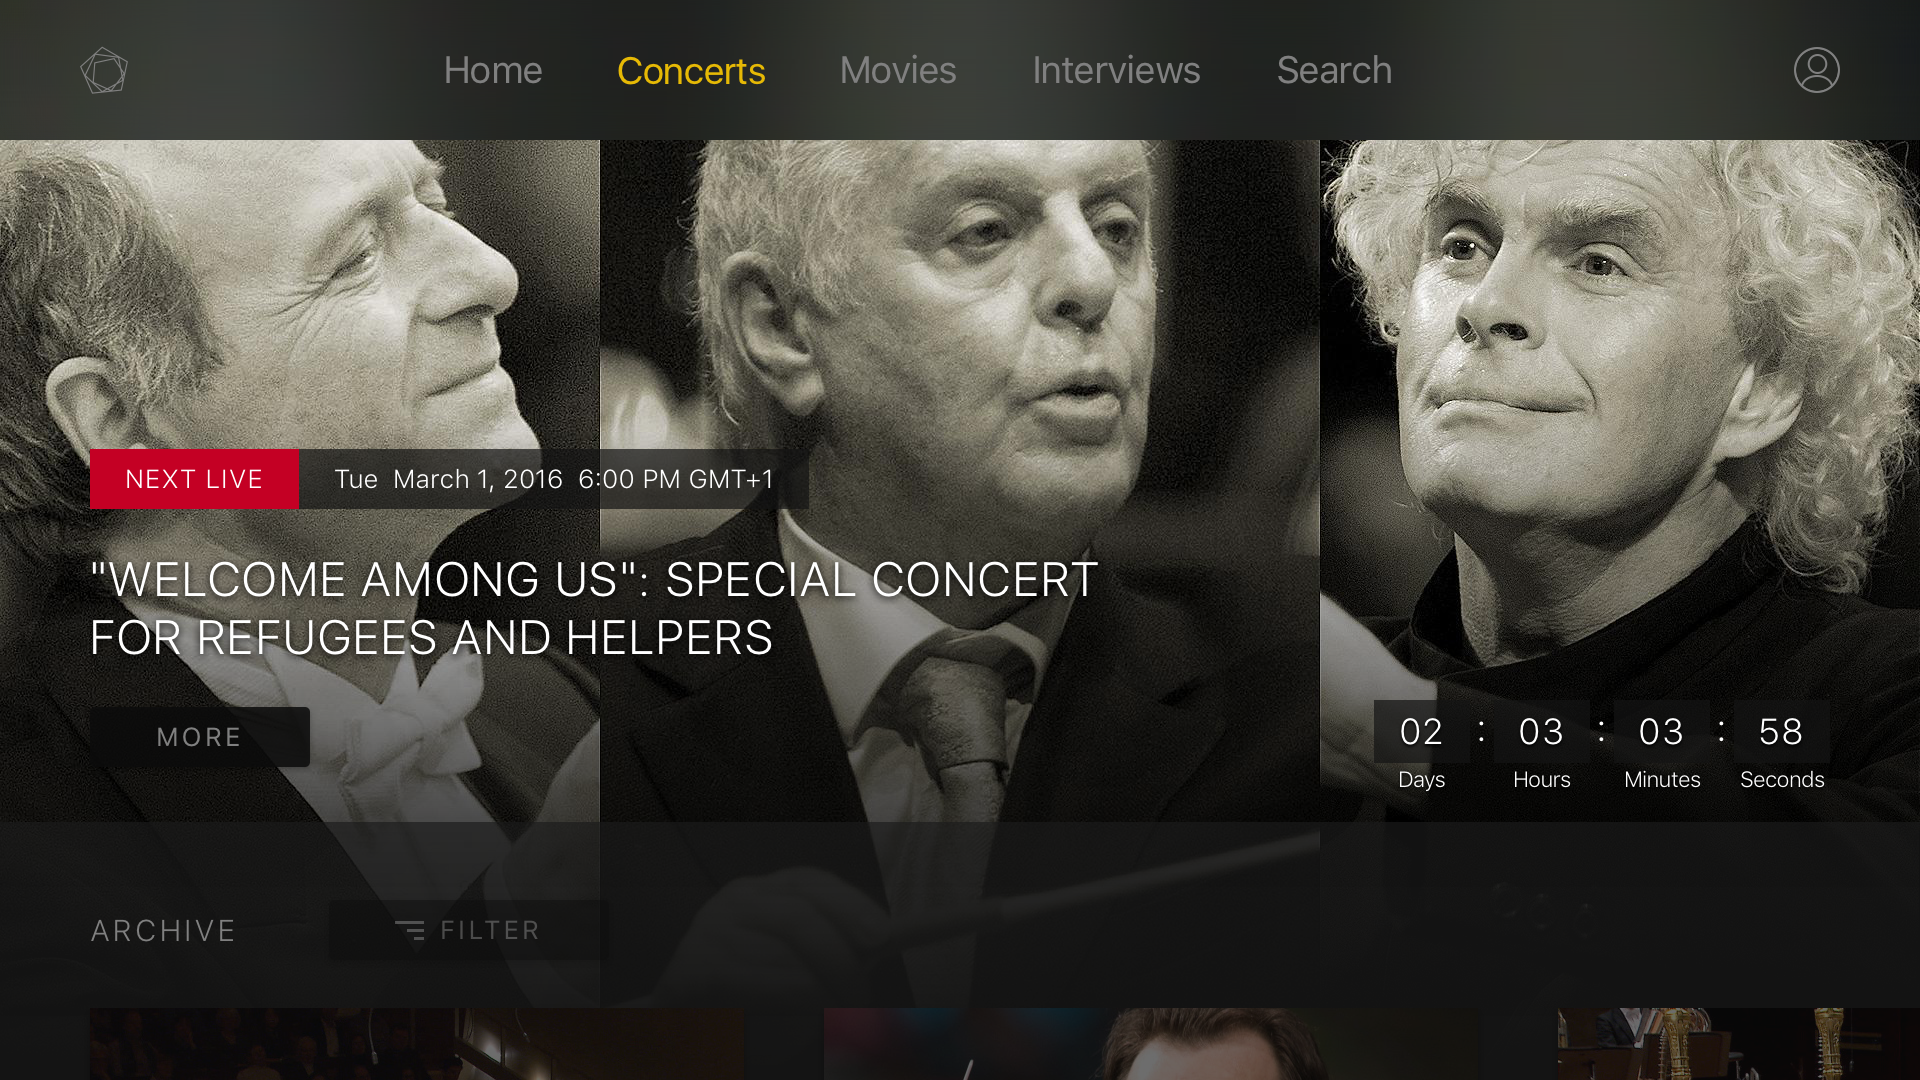
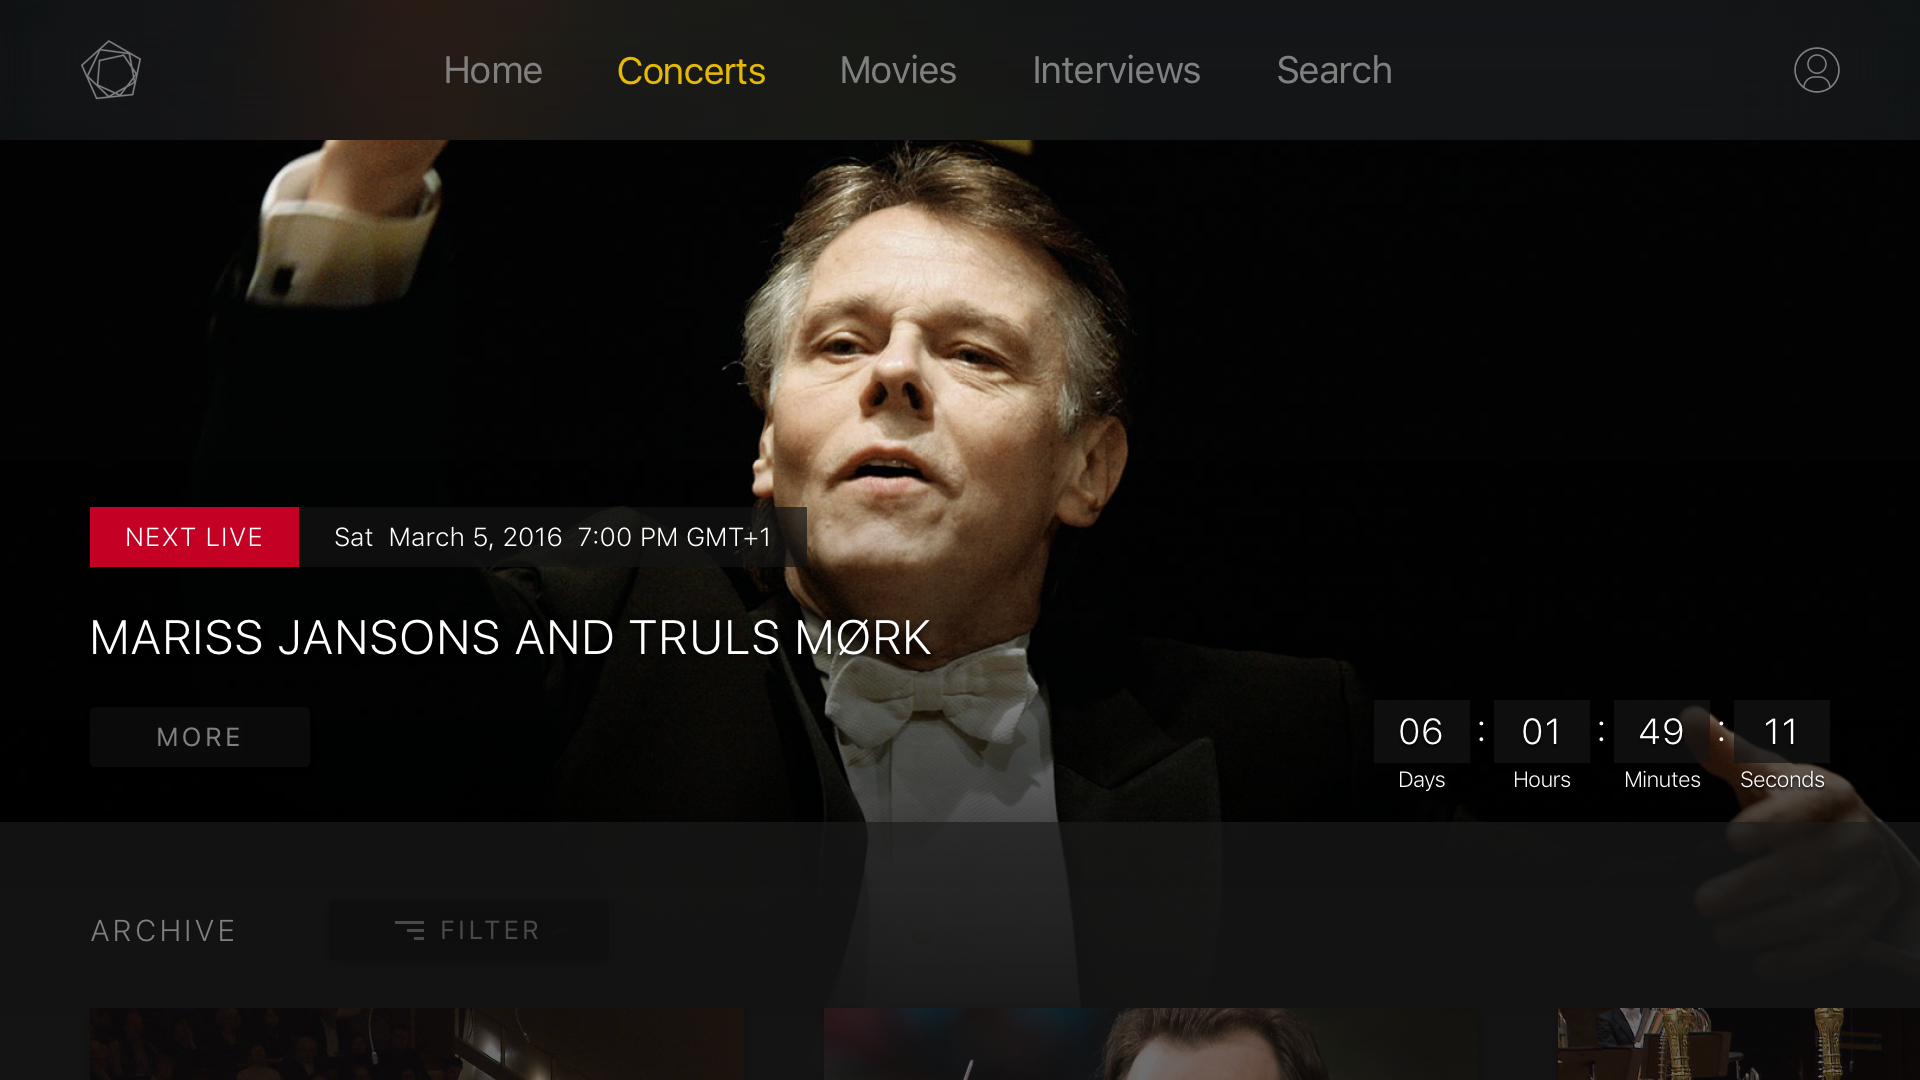
present DCH

diff --git a/css/main.scss b/css/main.scss
@@ -54,6 +54,7 @@ $project-foreground-colors: (
         'staramba': #fff        
 );
 
+$tvapps: ('dchtv');
 
 
 // ligatured operators ≥ ≤
@@ -80,6 +81,7 @@ $project-foreground-colors: (
   position: relative;
   width: 100%;
   margin: 55px 0 0;
+  padding-bottom: 25px;
   @include media('<large-desktop') {
     margin: 59px 0 0;
   }
@@ -850,6 +852,18 @@ $project-foreground-colors: (
       margin-bottom: 12px;
     }
   }
+  @each $tvapp in $tvapps {
+      &.#{$tvapp} {
+         .project-logo {
+             width: 200px;
+             img {
+                 width: 200px;
+                 border-radius: 0px;   
+             }
+         }
+     }
+  }
+  
   h1 {
     text-align: center;
     font: 400 35px/1.3 'Avenir_Black';
@@ -963,6 +977,9 @@ $project-foreground-colors: (
     vertical-align: top;
     width: 100%;
     height: auto;
+  }
+  .device-container {
+      margin-top: 20px;
   }
 }
 .project-btn-holder {

diff --git a/index.html b/index.html
@@ -13,13 +13,7 @@ title: Evenly - High Quality App &amp; Mobile Software Engineering
 		<h2 id="dch-sneak-peek">
 			Sneak peek at Digital Concert Hall for the new Apple TV
 		</h2>
-		<p>
-		    Since the introduction of Apple's tvOS platform and the 4th generation Apple TV we have been working on bringing the <a href="https://www.digitalconcerthall.com/">Digital Concert Hall</a> to the big screen. While it's not completly done we are excited to give you a sneak peek at our first tvOS project.
-		</p>            
-        <p class="sneak-wrapper">
-            <img src="/images/projects/dch/dch-tv-1.png" srcset="/images/projects/dch/dch-tv-1.png" title="Digital Concert Hall for Apple TV" />
-        </p>
-        
+        <a href="/projects/digital-concert-hall-tvos/" class="btn-primary" title="Preview of the Apple TV app for the Berlin Philharmonic's Digital Concert Hall">Take a look</a>        
 		
         </div>
     </div>

diff --git a/_layouts/projects.html b/_layouts/projects.html
@@ -4,6 +4,8 @@ layout: default
 
 {% include projects/single-project/single-project-banner.html %}
 {% include projects/single-project/product-image-holder.html %}
+
+{% if project.listed %}
 <div class="project-pagination">
     {% for project in site.projects %}
         {% if project.title == page.title %}
@@ -26,3 +28,4 @@ layout: default
         {% endif %}
     {% endfor %}
 </div>
+{% endif %}

diff --git a/_includes/projects/single-project/single-project-banner.html b/_includes/projects/single-project/single-project-banner.html
@@ -3,8 +3,6 @@
         <div class="project-logo {% if page.icon-color-mode %}{{ page.icon-color-mode }}{% else %} dark-mode {% endif %}">
             <img src="{{ page.logo }}" 
 				 srcset="{{ page.logo }}, {{ page.logo-2x }} 2x" 
-				 height="57" 
-				 width="57" 
 				 alt="{{ page.title }}" />
         </div>
         <h1>{{ page.title }}</h1>

diff --git a/_sass/base/_device-mockups.scss b/_sass/base/_device-mockups.scss
@@ -93,7 +93,7 @@
 
 /* TV */
 .device-mockup[data-device="tv"] {
-  padding-bottom: 60.25%;
+  padding-bottom: 60.28%;
 }
 
 .device-mockup[data-device="tv"] > .device {
@@ -101,7 +101,7 @@
 }
 
 .device-mockup[data-device="tv"] > .device > .screen {
-  top: 2.7%; bottom: 2%; left: 2%; right: 2%;
+  top: 2.65%; bottom: 2%; left: 2%; right: 2%;
 }
 
 

diff --git a/_projects/digital-concert-hall-tvos.md b/_projects/digital-concert-hall-tvos.md
@@ -1,0 +1,63 @@
+---
+layout: projects
+color-mode: dark-mode
+customclass: dchtv
+title: Digital Concert Hall for Apple TV
+small-description: The Digital Concert Hall by the Berlin Philharmonics is the worlds biggest collection of videos of classical concerts.
+description:  |
+   Since the introduction of Apple's tvOS platform and the 4th generation Apple TV we have been working on bringing the Berlin Philharmonic's [Digital Concert Hall](https://www.digitalconcerthall.com/) to the big screen. 
+   
+   While it's not completly done we are excited to give you a sneak peek at our first tvOS project.
+   
+   The app is beeing build on the same foundations as the successfull and highly aclaimed [iOS App](/projects/digital-concert-hall/). Just like it's mobile counterpart the Apple TV app was freshly designed from the ground up to take advantage of the Siri remote and the focus based navigation of tvOS. 
+
+   Stay tuned for more updates.
+
+hero-img: /images/img02.png
+hero-img-small: /images/img02-small.png
+hero-img-small-2x: /images/img02-small-2x.png
+hero-img-medium: /images/img02-medium.png
+hero-img-medium-2x: /images/img02-medium-2x.png
+hero-img-description: image description
+
+logo: /images/projects/dch/dch-tv-icon.png
+logo-2x: /images/projects/dch/dch-tv-icon@2x.png
+
+img: /images/projects/dch/dch-tv-1.png
+img-small: /images/projects/dch/dch-tv-1.png
+img-small-2x: /images/projects/dch/dch-tv-1.png
+img-medium: /images/projects/dch/dch-tv-1.png
+img-medium-2x: /images/projects/dch/dch-tv-1.png
+img-description: Digital Concert Hall tvOS App for Apple TV
+img-orientation: landscape
+
+product-images:
+    - device: tv
+      orientation: landscape
+      img: /images/projects/dch/dch-tv-2.png
+      img-small: /images/projects/dch/dch-tv-2.png
+      img-small-2x: /images/projects/dch/dch-tv-2.png
+      img-medium: /images/projects/dch/dch-tv-2.png
+      img-medium-2x: /images/projects/dch/dch-tv-2.png
+      img-description: Digital Concert Hall App for Apple TV
+      
+    - device: tv
+      orientation: landscape
+      img: /images/projects/dch/dch-tv-3.png
+      img-small: /images/projects/dch/dch-tv-3.png
+      img-small-2x: /images/projects/dch/dch-tv-3.png
+      img-medium: /images/projects/dch/dch-tv-3.png
+      img-medium-2x: /images/projects/dch/dch-tv-3.png
+      img-description: Digital Concert Hall App for Apple TV
+      
+    - device: tv
+      orientation: landscape
+      img: /images/projects/dch/dch-tv-4.png
+      img-small: /images/projects/dch/dch-tv-4.png
+      img-small-2x: /images/projects/dch/dch-tv-4.png
+      img-medium: /images/projects/dch/dch-tv-4.png
+      img-medium-2x: /images/projects/dch/dch-tv-4.png
+      img-description: Digital Concert Hall App for Apple TV            
+    
+    
+---
